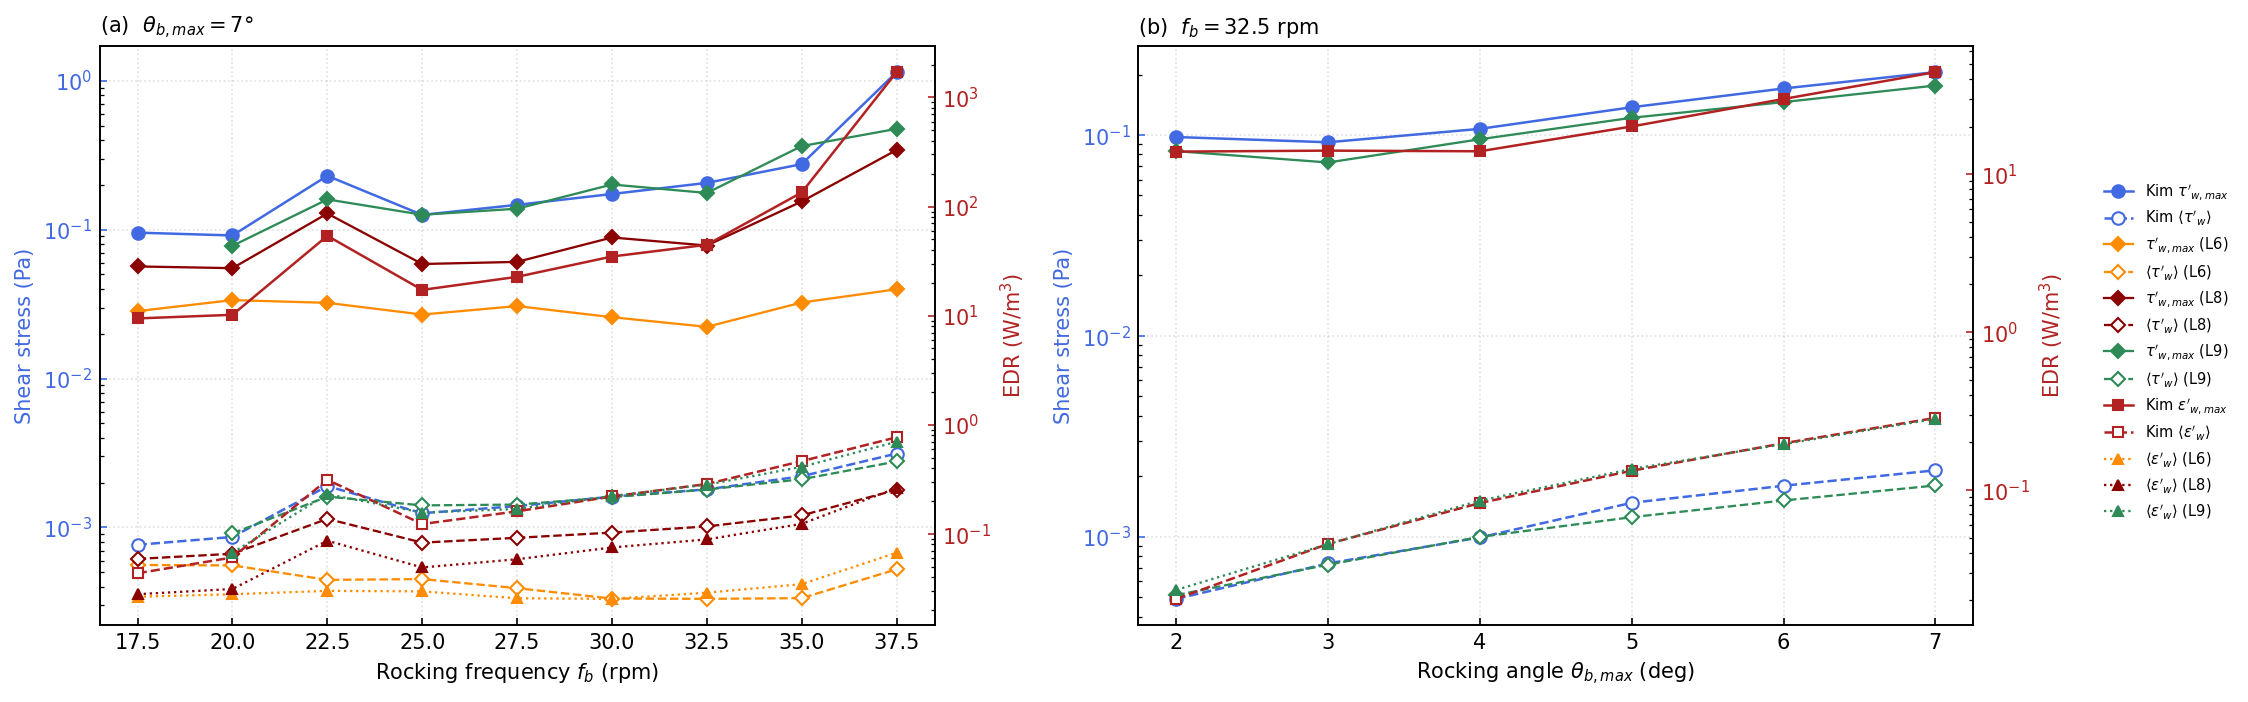
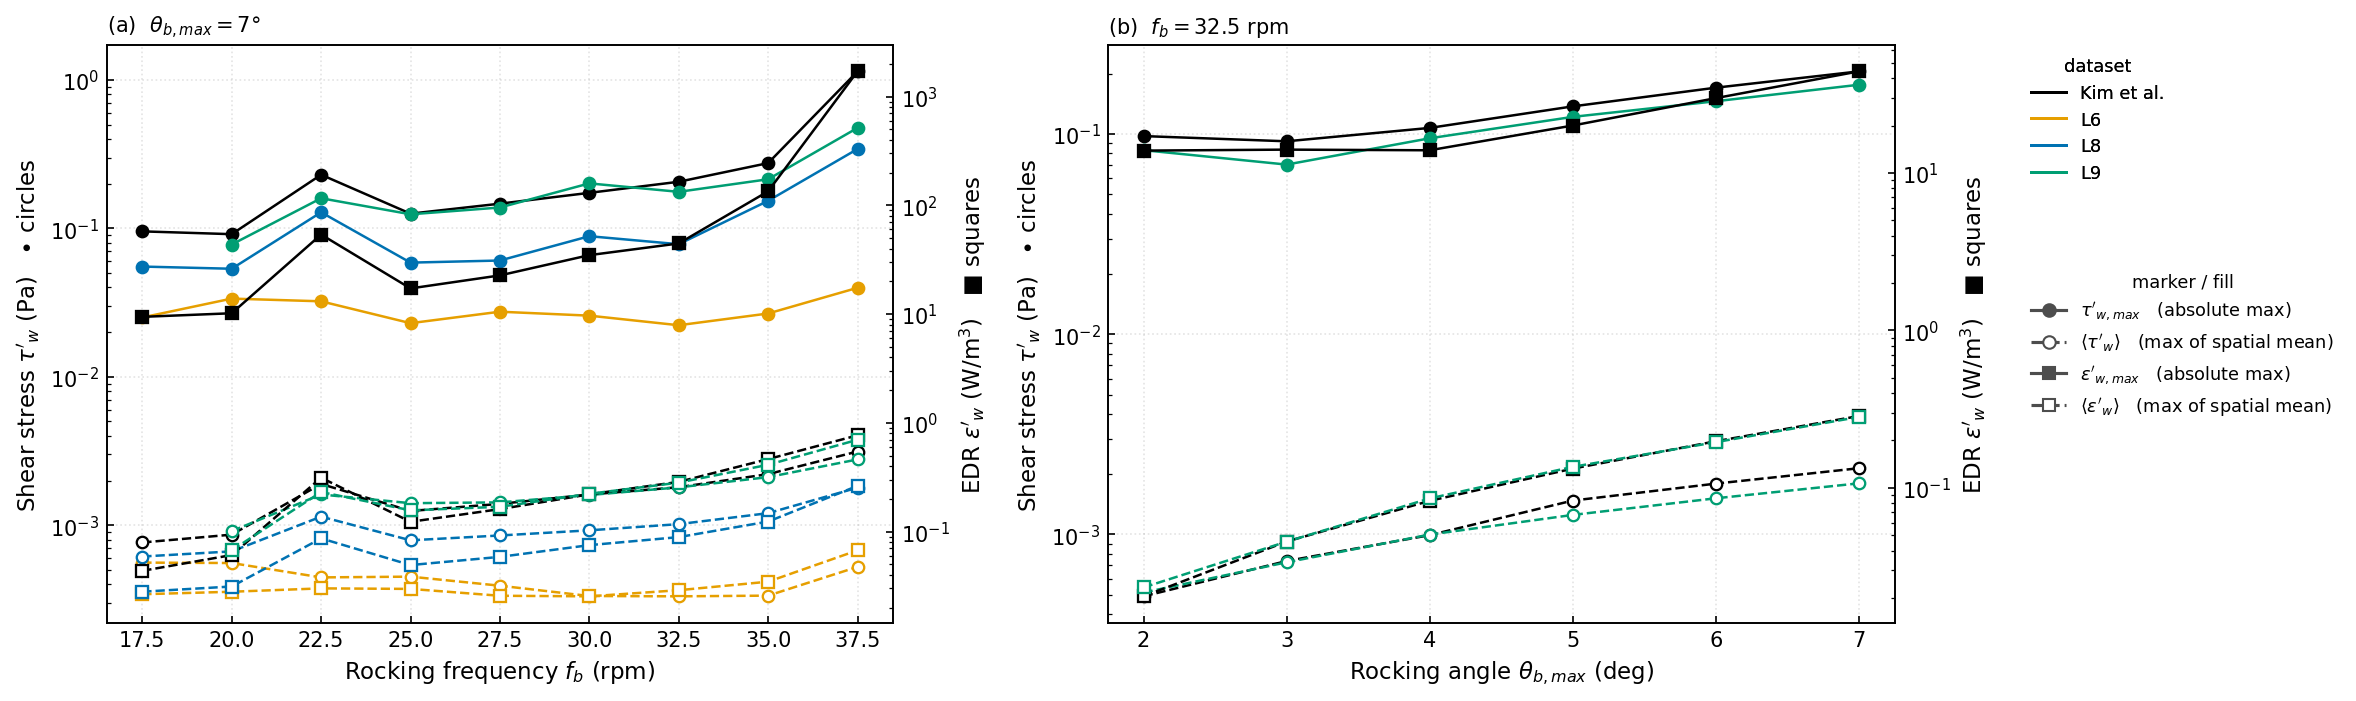
style(fig13): one meaning per visual channel; use Kim's signed tau max
Two datasets shared a colour -- our L8 (darkred) sat next to Kim's EDR
(firebrick) -- because colour was encoding dataset AND quantity at once. And
the fill convention was inconsistent: our <eps> was a FILLED triangle while
every other spatially-averaged series was hollow.

Each channel now carries exactly one meaning, with the fill convention taken
from Kim's own caption ("maximum shear stress (solid blue circles) ... along
with the maximum of the spatially averaged shear stress (hollow blue
circles)"):

  COLOUR = dataset     Kim / L6 / L8 / L9, Okabe-Ito, CVD-distinguishable
  MARKER = quantity    circle = tau, square = epsilon (Kim's own shapes)
  FILL   = statistic   filled = absolute max, hollow = max of spatial mean

Axis labels are neutral now and name their marker: with colour meaning
dataset, colouring them blue/red pointed at nothing. Two small legends decode
colour and marker/fill separately, rather than one list of eleven entries.

Our EDR appears as hollow squares only: these runs predate the ediss_kim_max
column, so the filled square is Kim's alone -- shown as an absent series
rather than by substituting a different statistic.

Also switched tau_max to the SIGNED maximum (shear_stress.dat col 8,
tau_100_signed; frames: tau.max() not abs(tau).max()). Kim takes max() of the
signed field -- bio_stress.m:583-585 has no abs() -- where col 4 is max|tau|,
a different statistic. Difference here is 0-3.5%.
[…]

diff --git a/scripts/plot_fig13.py b/scripts/plot_fig13.py
@@ -65,7 +65,10 @@ def from_timeseries(prefix):
         if not f.exists(): continue
         a=np.loadtxt(f,skiprows=1); _,ts,es=scales(run)
         t=a[:,1]; m=t>=t[0]+0.6*(t[-1]-t[0])          # settled tail
-        rows.append(dict(x=r, tau_max=a[m,4].max()*ts,
+        # col 8 = tau_100_signed. Kim takes max() of the SIGNED field
+        # (bio_stress.m:583-585, no abs()); col 4 is max|tau|, a different
+        # statistic. Measured difference here: 0-3.5%.
+        rows.append(dict(x=r, tau_max=a[m,8].max()*ts,
                          tau_mean=0.5*(a[m,10].max()-a[m,10].min())*ts,
                          ed_mean=a[m,9].max()*es))
     return pd.DataFrame(rows).sort_values('x')
@@ -93,7 +96,7 @@ def from_frames(runs):
             bag=(f>0.5)&(np.abs(yy)<b)
             if not bag.any(): continue
             sm.append(tau[bag].mean()); em.append(ed[bag].mean())
-            tmax=max(tmax,float(np.abs(tau[bag]).max()))
+            tmax=max(tmax,float(tau[bag].max()))   # signed, as Kim
         rows.append(dict(x=x, tau_max=tmax*ts,
                          tau_mean=0.5*(max(sm)-min(sm))*ts, ed_mean=max(em)*es))
     return pd.DataFrame(rows).sort_values('x')
@@ -104,33 +107,94 @@ kim_deg=pd.read_csv(CSV_DEG).sort_values('theta_deg')
 l6=from_timeseries('fig13a_l6_mf_rpm'); l8=from_timeseries('fig13a_rm_mf_rpm')
 l9=from_frames(RPM_RUNS_L9); l9d=from_frames(DEG_RUNS)
 
-fig,(ax,ax2)=plt.subplots(1,2,figsize=(14,4.8))
-def panel(a,kx,kdf,ours,xlabel,xticks):
-    a2=a.twinx()
-    a.plot(kdf[kx],kdf['tau_liq_max'],color='royalblue',marker='o',ms=6,lw=1.2,label=r"Kim $\tau'_{w,max}$")
-    a.plot(kdf[kx],kdf['tau_liq_mean'],color='royalblue',marker='o',ms=6,lw=1.2,ls='--',mfc='w',label=r"Kim $\langle\tau'_w\rangle$")
-    a2.plot(kdf[kx],kdf['Ediss_liq_max'],color='firebrick',marker='s',ms=5,lw=1.2,label=r"Kim $\epsilon'_{w,max}$")
-    a2.plot(kdf[kx],kdf['Ediss_liq_mean'],color='firebrick',marker='s',ms=5,lw=1.2,ls='--',mfc='w',label=r"Kim $\langle\epsilon'_w\rangle$")
-    for d,c,l in ours:
-        if d.empty: continue
-        a.plot(d['x'],d['tau_max'],color=c,marker='D',ms=5,lw=1.1,label=rf"$\tau'_{{w,max}}$ ({l})")
-        a.plot(d['x'],d['tau_mean'],color=c,marker='D',ms=5,lw=1.1,ls='--',mfc='w',label=rf"$\langle\tau'_w\rangle$ ({l})")
-        a2.plot(d['x'],d['ed_mean'],color=c,marker='^',ms=5,lw=1.1,ls=':',label=rf"$\langle\epsilon'_w\rangle$ ({l})")
-    a.set_yscale('log'); a2.set_yscale('log')
-    a.set_xlabel(xlabel); a.set_ylabel('Shear stress (Pa)',color='royalblue')
-    a2.set_ylabel(r'EDR (W/m$^3$)',color='firebrick')
-    a.tick_params(axis='y',colors='royalblue'); a2.tick_params(axis='y',colors='firebrick')
-    a.tick_params(which='both',direction='in'); a2.tick_params(which='both',direction='in')
-    a.grid(True,which='major',ls=':',alpha=0.4); a.set_xticks(xticks)
+# ── encoding ──────────────────────────────────────────────────────────────
+# Each visual channel carries exactly ONE meaning, and the fill convention is
+# Kim's own (caption of his Fig. 13: "maximum shear stress (solid blue
+# circles) and energy dissipation rate (solid red squares) ... along with the
+# maximum of the spatially averaged shear stress (hollow blue circles) and
+# energy dissipation rate (hollow red squares)"):
+#
+#   COLOUR  = dataset        Kim / L6 / L8 / L9
+#   MARKER  = quantity       circle = tau      square = epsilon
+#   FILL    = statistic      filled = absolute max      hollow = max of the
+#                            SPATIAL MEAN
+#
+# Previously colour encoded dataset AND quantity at once, which put our L8
+# (darkred) next to Kim's EDR (firebrick) -- two different datasets in
+# near-identical red -- and our <eps> was a FILLED triangle while every other
+# spatially-averaged series was hollow. Axis labels are neutral now: with
+# colour meaning dataset, colouring them blue/red would point at nothing.
+#
+# Okabe-Ito, distinguishable in common colour-vision deficiencies.
+C_KIM, C_L6, C_L8, C_L9 = "black", "#E69F00", "#0072B2", "#009E73"
+MK_TAU, MK_EPS = "o", "s"
+
+
+def _series(axis, x, y, colour, marker, filled, lw=1.2, ms=5.5):
+    axis.plot(x, y, color=colour, marker=marker, ms=ms, lw=lw,
+              ls="-" if filled else "--",
+              mfc=colour if filled else "w", mec=colour, mew=1.1)
+
+
+fig,(ax,ax2)=plt.subplots(1,2,figsize=(13.5,4.8))
+
+
+def panel(a, kx, kdf, ours, xlabel, xticks):
+    a2 = a.twinx()
+    # Kim: all four series
+    _series(a,  kdf[kx], kdf["tau_liq_max"],    C_KIM, MK_TAU, True)
+    _series(a,  kdf[kx], kdf["tau_liq_mean"],   C_KIM, MK_TAU, False)
+    _series(a2, kdf[kx], kdf["Ediss_liq_max"],  C_KIM, MK_EPS, True)
+    _series(a2, kdf[kx], kdf["Ediss_liq_mean"], C_KIM, MK_EPS, False)
+    # ours: tau max + tau mean, and EDR mean only -- these runs predate the
+    # ediss_kim_max column, so the filled square is Kim's alone. Shown as the
+    # absence of a series rather than by substituting a different statistic.
+    for d, colour in ours:
+        if d.empty:
+            continue
+        _series(a,  d["x"], d["tau_max"],  colour, MK_TAU, True)
+        _series(a,  d["x"], d["tau_mean"], colour, MK_TAU, False)
+        _series(a2, d["x"], d["ed_mean"],  colour, MK_EPS, False)
+    a.set_yscale("log"); a2.set_yscale("log")
+    a.set_xlabel(xlabel, fontsize=11)
+    a.set_ylabel(r"Shear stress $\tau'_w$ (Pa)   $\bullet$ circles", fontsize=11)
+    a2.set_ylabel(r"EDR $\epsilon'_w$ (W/m$^3$)   $\blacksquare$ squares", fontsize=11)
+    a.tick_params(which="both", direction="in")
+    a2.tick_params(which="both", direction="in")
+    a.grid(True, which="major", ls=":", alpha=0.35)
+    a.set_xticks(xticks)
     return a2
 
-a2a=panel(ax,'RPM',kim_rpm,[(l6,'darkorange','L6'),(l8,'darkred','L8'),(l9,'seagreen','L9')],
-          r'Rocking frequency $f_b$ (rpm)',RPMS)
-ax.set_title(r'(a)  $\theta_{b,max}=7°$',loc='left',fontsize=10)
-a2b=panel(ax2,'theta_deg',kim_deg,[(l9d,'seagreen','L9')],
-          r'Rocking angle $\theta_{b,max}$ (deg)',[2,3,4,5,6,7])
-ax2.set_title(r'(b)  $f_b=32.5$ rpm',loc='left',fontsize=10)
-h1,l1=ax.get_legend_handles_labels(); h2,l2=a2a.get_legend_handles_labels()
-fig.legend(h1+h2,l1+l2,fontsize=7,loc='center left',bbox_to_anchor=(1.0,0.5),frameon=False)
-fig.tight_layout(); fig.savefig(OUT,dpi=150,bbox_inches='tight')
-print('saved',OUT)
+
+panel(ax, "RPM", kim_rpm, [(l6, C_L6), (l8, C_L8), (l9, C_L9)],
+      r"Rocking frequency $f_b$ (rpm)", RPMS)
+ax.set_title(r"(a)  $\theta_{b,max}=7°$", loc="left", fontsize=10)
+panel(ax2, "theta_deg", kim_deg, [(l9d, C_L9)],
+      r"Rocking angle $\theta_{b,max}$ (deg)", [2, 3, 4, 5, 6, 7])
+ax2.set_title(r"(b)  $f_b=32.5$ rpm", loc="left", fontsize=10)
+
+# Two small legends instead of one list of eleven: one decodes colour
+# (dataset), the other decodes marker+fill (quantity, statistic). Both sit
+# outside the axes.
+from matplotlib.lines import Line2D
+ds = [Line2D([], [], color=c, lw=1.4, label=l) for c, l in
+      [(C_KIM, "Kim et al."), (C_L6, "L6"), (C_L8, "L8"), (C_L9, "L9")]]
+enc = [Line2D([], [], color="0.3", marker=MK_TAU, ls="-",  mfc="0.3", ms=6,
+              label=r"$\tau'_{w,max}$   (absolute max)"),
+       Line2D([], [], color="0.3", marker=MK_TAU, ls="--", mfc="w",   ms=6,
+              label=r"$\langle\tau'_w\rangle$   (max of spatial mean)"),
+       Line2D([], [], color="0.3", marker=MK_EPS, ls="-",  mfc="0.3", ms=6,
+              label=r"$\epsilon'_{w,max}$   (absolute max)"),
+       Line2D([], [], color="0.3", marker=MK_EPS, ls="--", mfc="w",   ms=6,
+              label=r"$\langle\epsilon'_w\rangle$   (max of spatial mean)")]
+leg1 = fig.legend(handles=ds, fontsize=8.5, loc="upper left",
+                  bbox_to_anchor=(1.0, 0.93), frameon=False, title="dataset")
+leg2 = fig.legend(handles=enc, fontsize=8.5, loc="upper left",
+                  bbox_to_anchor=(1.0, 0.63), frameon=False, title="marker / fill")
+for lg in (leg1, leg2):
+    lg.get_title().set_fontsize(8.5)
+fig.add_artist(leg1)
+
+fig.tight_layout()
+fig.savefig(OUT, dpi=150, bbox_inches="tight")
+print("saved", OUT)
